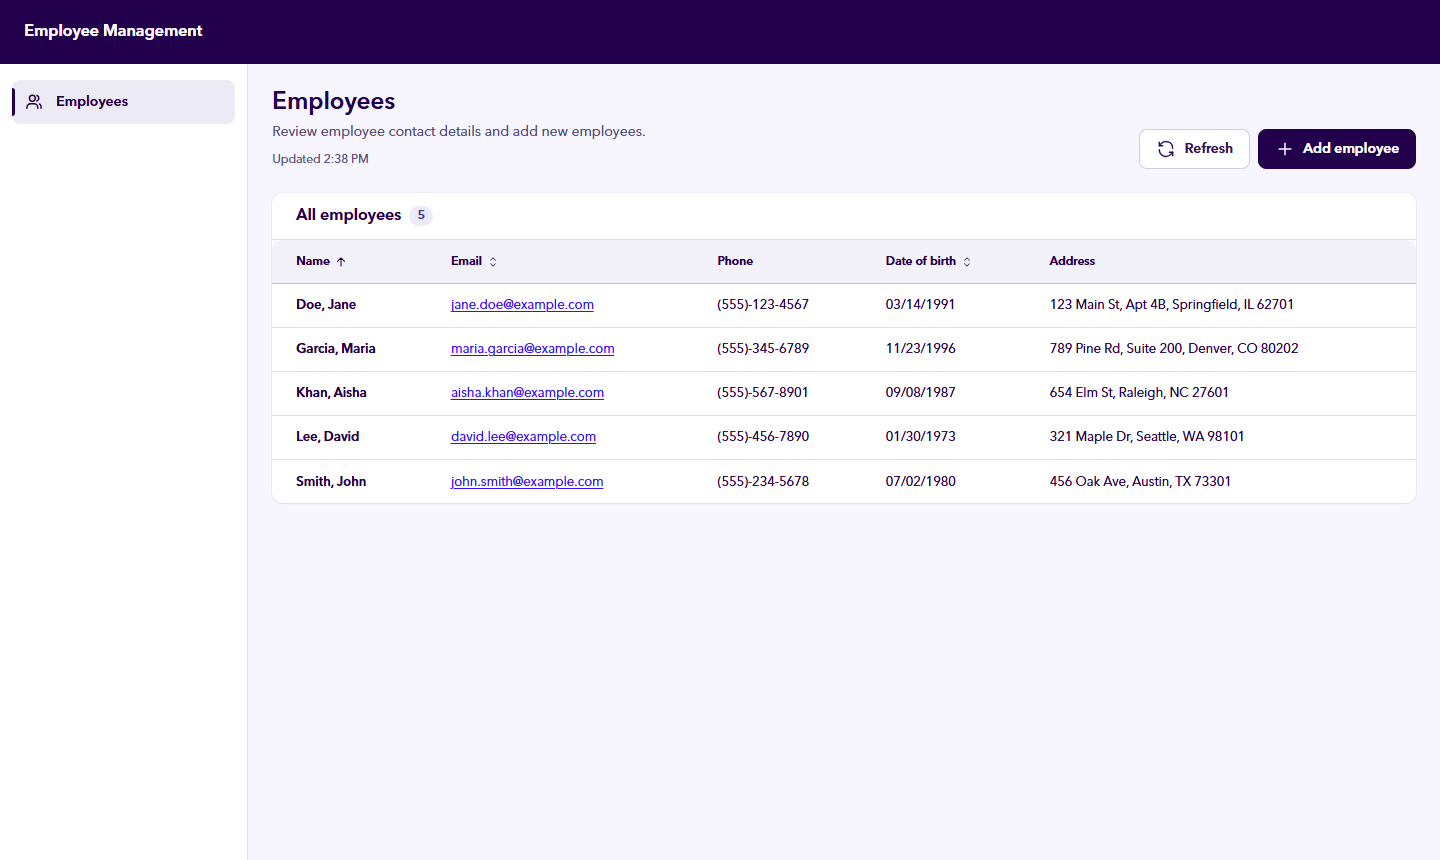
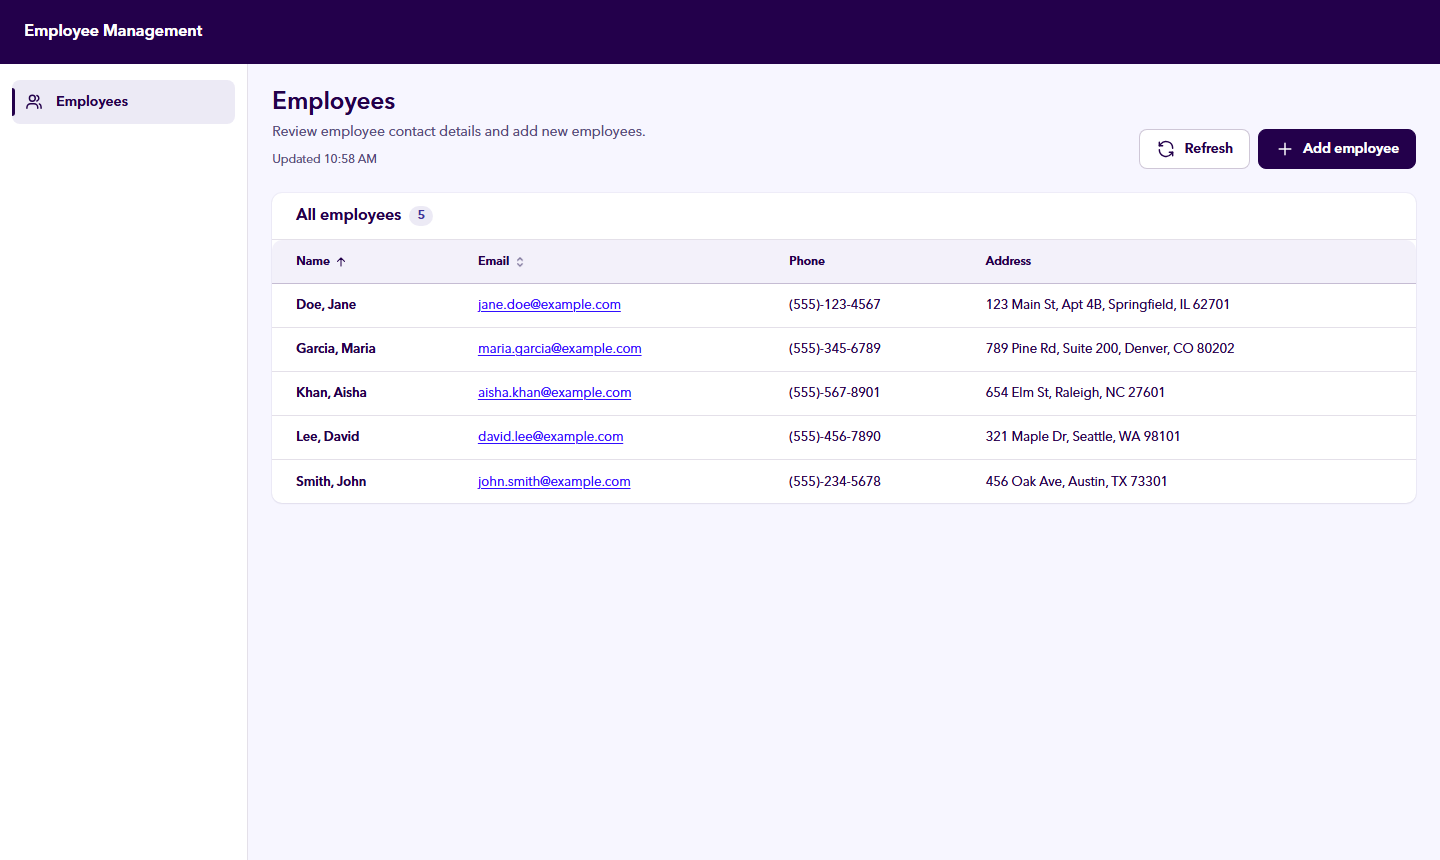
Show only the four table columns the brief requires
The brief says the employee table should display "these columns only":
Name, Email, Phone and Address. Remove the extra Date of birth column,
its sort option and its test; the loading placeholder now shows four
columns. Date of birth is still collected on the form and stored.

- README: drop the column deviation, update sorting text and test counts
- AI_USAGE: add "A requirement the AI missed: table columns"
- Retake the table screenshot

diff --git a/src/EmployeeManagement.Client/Services/EmployeeSorter.cs b/src/EmployeeManagement.Client/Services/EmployeeSorter.cs
@@ -6,7 +6,6 @@ public enum EmployeeSortColumn
 {
     Name,
     Email,
-    DateOfBirth,
 }
 
 public enum SortDirection
@@ -38,9 +37,6 @@ public static class EmployeeSorter
         var ordered = sort.Column switch
         {
             EmployeeSortColumn.Email => By(employees, e => e.Email, text, descending),
-            EmployeeSortColumn.DateOfBirth => By(employees, e => e.DateOfBirth, Comparer<DateOnly>.Default, descending)
-                .ThenBy(e => e.LastName, text)
-                .ThenBy(e => e.FirstName, text),
             _ => ThenBy(By(employees, e => e.LastName, text, descending), e => e.FirstName, text, descending),
         };
 

diff --git a/tests/EmployeeManagement.Tests/Unit/EmployeeSorterTests.cs b/tests/EmployeeManagement.Tests/Unit/EmployeeSorterTests.cs
@@ -50,16 +50,6 @@ public class EmployeeSorterTests
     }
 
     [Fact]
-    public void Sort_ByDateOfBirth_OrdersOldestFirstWhenAscending()
-    {
-        var sort = new EmployeeSort(EmployeeSortColumn.DateOfBirth, SortDirection.Ascending);
-
-        var result = EmployeeSorter.Sort(Sample, sort);
-
-        Assert.Equal([1975, 1980, 1991], result.Select(e => e.DateOfBirth.Year));
-    }
-
-    [Fact]
     public void Toggle_SameColumnTwice_FlipsDirection()
     {
         var sort = EmployeeSort.Default.Toggle(EmployeeSortColumn.Name);

diff --git a/tests/EmployeeManagement.Tests/Components/EmployeeTableTests.cs b/tests/EmployeeManagement.Tests/Components/EmployeeTableTests.cs
@@ -4,8 +4,7 @@ using EmployeeManagement.Contracts.Employees;
 
 namespace EmployeeManagement.Tests.Components;
 
-// R-15: the employee table must show exactly Name, Email, Phone, Address (combined),
-// plus the documented extra Date of birth column (see AI_USAGE/README deviation).
+// R-15: the employee table must show exactly Name, Email, Phone, Address (combined)
 [Trait("Requirement", "R-15")]
 public class EmployeeTableTests : BunitContext
 {

diff --git a/AI_USAGE.md b/AI_USAGE.md
@@ -20,7 +20,7 @@
 | 9 | Build the Blazor page: employee table with combined Name/Address columns, add form with field-level validation and API error display. | Page + table/form components, typed API client, shared-validation form validator, prerendering off. Verified in a real browser (headless Edge via Playwright, from a throwaway environment outside the repo): 5 seeded rows load; empty submit shows 9 messages and sends no request; a bad phone shows its message after editing; a valid add with " va"/blank Address 2 appears as `VA` with no blank segment and clears the form; a duplicate email in different casing shows the API's 409 message under Email. |
 | 10 | Format the phone number automatically while typing, not only after leaving the field. | `InputPhoneNumber` component + `PhoneNumberFormatter`. Tested key by key in a browser: each digit reformats immediately, an 11th digit is ignored, Backspace works, letters and dots are stripped, pasted `+1 (555) 222-3333` becomes `(555)-222-3333`, and a saved employee stores the formatted number. |
 | 11 | Turn the State field into a dropdown that filters as I type the 2-letter code. | `InputUsState` combobox, shared `UsStates` list in Contracts (also used by `[UsState]`) and `UsStateFilter`. Tested in a browser: focus lists 51 options; `T` → TN, TX; `TE` matches by name; arrow keys + Enter select without submitting the form; click and Escape work; digits are stripped and lowercase is uppercased; `ZZ` shows the error, which clears on `TX`; a saved employee stores `TX` and the form resets. |
-| 12 | Apply my Zelis "Lumen" design brief to the whole app (summarized [below](#ui-design-prompt-summary)). Before building I narrowed it: sorting only, keep the Date of birth column, sort Name by last name and show it "Last, First". | One token file and theme, a shared component set in `Components/UI/` (11 components), a new app shell, and a redesigned employees page (sortable table, add form in a drawer with a discard check, toasts, loading/empty/error states), plus redesigned Not Found and error pages. No business logic, API calls or validation rules changed. Verified with a Playwright script in headless Edge at desktop, tablet and phone widths (85 checks: sizes and colors, sorting, keyboard and focus, validation, the 409, phone/state inputs, saving, every page state), axe-core (0 WCAG 2.2 AA violations on every page and state), and a review of every screenshot. |
+| 12 | Apply my Zelis "Lumen" design brief to the whole app (summarized [below](#ui-design-prompt-summary)). Before building I narrowed it: sorting only, keep the Date of birth column (later removed, see [below](#a-requirement-the-ai-missed-table-columns)), sort Name by last name and show it "Last, First". | One token file and theme, a shared component set in `Components/UI/` (11 components), a new app shell, and a redesigned employees page (sortable table, add form in a drawer with a discard check, toasts, loading/empty/error states), plus redesigned Not Found and error pages. No business logic, API calls or validation rules changed. Verified with a Playwright script in headless Edge at desktop, tablet and phone widths (85 checks: sizes and colors, sorting, keyboard and focus, validation, the 409, phone/state inputs, saving, every page state), axe-core (0 WCAG 2.2 AA violations on every page and state), and a review of every screenshot. |
 | 13 | Write a Lead QA Tester prompt and give it, with the exercise document, to a separate Sonnet sub-agent with fresh context. It may change only test files (summarized [below](#qa-sub-agent-summary)). | 98 tests (159 cases) across unit, API integration and Blazor component (bUnit) tests, each tagged with the requirement it checks, plus exploratory API, browser and accessibility checks and a written report. 158 passed and 1 failed on purpose, exposing a real inconsistency: 404 and 409 errors were sent as `application/json`. I checked every finding before acting on it: one was confirmed and fixed, one was a false alarm, and my review of the new tests found two more problems (see the corrections below). All 159 now pass. |
 | 14 | Test a fresh clone of the repo, following only the README, to confirm it runs as-is. | Cloned the repo from GitHub into an empty folder and ran restore, build, test and run exactly as the README says: 0 warnings, 159/159 tests passed, the database was created and seeded with 5 employees, and the page, Swagger and API all responded with no browser console errors. |
 
@@ -37,7 +37,7 @@ The redesign came from one long prompt I wrote. In short, it asked for:
 - **Avoid:** gradients, translucent panels, heavy shadows, emoji icons, imitation logos, yellow primary buttons.
 - **Finish:** review every page, then summarize the files, tokens and components changed.
 
-**My scope decisions:** sorting only, because search, filtering and pagination are out of scope in the exercise. I kept the Date of birth column, and Name is sorted by last name and shown "Last, First".
+**My scope decisions:** sorting only, because search, filtering and pagination are out of scope in the exercise. I kept the Date of birth column (a mistake I later reversed; see [below](#a-requirement-the-ai-missed-table-columns)), and Name is sorted by last name and shown "Last, First".
 
 **Not built, and why:** dashboard cards, charts, tabs, breadcrumbs and overflow menus (no screen needs them); the logo (no official asset is in the repo, so the header shows the app name and has a slot for one); Avenir (a licensed font, so it isn't bundled).
 
@@ -84,10 +84,22 @@ For an independent test pass I wrote a "Lead QA Tester" prompt and ran it as a s
 - **Wrong requirement tags:** the QA sub-agent labeled some tests with requirement IDs that didn't match its own list (duplicate-email tests marked as the phone requirement, add-form tests as Swagger, delete tests as seed data). Found while documenting the `--filter` option; corrected the tags and re-ran the filter for every ID.
 - **Sub-agent stopped by my own chat messages:** the first two QA runs were started in the background and stopped partway, with no error, shortly after I sent a new chat message; the CLI cancelled the background sub-agent when the new message arrived. The third run was started in the foreground with a handover note describing the partial work, and finished.
 
+## A requirement the AI missed: table columns
+
+The brief says the table should display "these columns **only**": Name, Email, Phone and Address. The AI's first version of the table (commit `455fed8`) added a fifth column, Date of birth, and neither the commit message nor its summary mentioned it. After that, every review treated the extra column as a feature instead of a requirement miss:
+
+- During the redesign I chose to keep it, without checking it against the brief.
+- The QA sub-agent tagged the table tests with the columns requirement (R-15) but wrote "plus the documented extra Date of birth column", so it accepted the extra column instead of failing it.
+- The README listed it as a "deliberate deviation", and an interviewer-style review by another sub-agent marked it "Deviation" rather than "Not met".
+
+I caught it myself while re-reading the brief before submitting. I removed the column, its sort option and its test, and the loading placeholder now shows four columns. Date of birth is still collected on the form and stored, because that deviation (instead of age) has a real reason behind it.
+
+**Lesson:** an AI reviewer that reads the existing docs tends to accept what they already say. Requirement words like "only" need a check against the brief itself, line by line, not against the code or the README.
+
 ## How I reviewed and tested AI-generated code
 
 - Read every diff before committing.
-- Built after each step. Since the QA pass, `dotnet test` (159 cases) must pass before a commit. Checked in Swagger that every endpoint lists its status codes, and ran the app myself (F5 in VS Code) to try each feature by hand.
+- Built after each step. Since the QA pass, `dotnet test` (158 cases since the Date of birth sort test was removed) must pass before a commit. Checked in Swagger that every endpoint lists its status codes, and ran the app myself (F5 in VS Code) to try each feature by hand.
 - Independent QA pass by a separate sub-agent (above). I treated its report as claims to check, not facts: I reproduced each finding before changing anything, which caught one false alarm.
 - Before submitting: a fresh clone from GitHub run exactly as the README describes, and a CI workflow that builds and tests on Ubuntu and Windows for every push.
 - UI redesign: scripted browser checks (Playwright, headless Edge) at desktop, tablet and phone widths, axe-core accessibility scans, and a look at every screenshot. The screenshots caught six layout bugs that the scripted checks and axe missed (listed above).

diff --git a/README.md b/README.md
@@ -58,7 +58,7 @@ The Client project has no reference to the Server project or EF Core, so the UI 
 
 ## Tests
 
-`dotnet test` runs 98 tests (159 cases, because a `[Theory]` runs once per row of test data) in about 2 seconds once built. Nothing else needs to be installed or running.
+`dotnet test` runs 97 tests (158 cases, because a `[Theory]` runs once per row of test data) in about 2 seconds once built. Nothing else needs to be installed or running.
 
 | Folder | What it covers | How |
 |---|---|---|
@@ -150,8 +150,8 @@ Adding an employee, end to end:
 - **Phone number formats as you type.** `InputPhoneNumber` reformats on every keystroke (`5551234567` → `(555)-123-4567`), ignores anything that isn't a digit, stops at 10 digits and handles pasted numbers such as `+1 (555) 222-3333`. It never adds a trailing separator, so Backspace always deletes a digit. The formatting logic is plain C# (`PhoneNumberFormatter`), so it can be unit tested. To avoid an error appearing after the first digit, the phone message waits until the number is complete or you leave the field; once shown, it clears as soon as the number is fixed. The API still validates the format, so the server never relies on the UI.
 - **Normalization lives in Contracts** (`EmployeeRequestNormalizer`), shared by the API and the form.
 - **State picker with type-to-filter.** `InputUsState` is a small combobox, not a native `<select>` or `<datalist>`: typing filters the list by code first, then by name (`T` → TN, TX; `TE` → Tennessee, Texas), and you can use the arrow keys, Enter, Escape (which closes only the list, not the drawer around it) or the mouse. Input is limited to two letters and uppercased. A `<select>` can't be typed into freely, and `<datalist>` filtering and appearance differ by browser. The list of states lives in `Contracts/Validation/UsStates.cs`, so the API validation and the picker share one list. A few lines of JavaScript (`InputUsState.razor.js`) stop Enter from submitting the form while an option is highlighted, because Blazor can't cancel a key press conditionally. Validation timing matches the phone field, and ARIA combobox attributes support screen readers.
-- **Sorting only; names shown "Last, First".** Search, filtering and pagination are out of scope in the brief, so the table only sorts: click Name, Email or Date of birth to sort, click again to reverse. Name sorts by last name, then first name (the API's default order). Sorting happens in the browser on the list already loaded (`EmployeeSorter`); the sorted column is marked with `aria-sort` and the new order is announced to screen readers.
-- **Extra Date of birth column (deliberate deviation):** the brief lists four table columns (Name, Email, Phone, Address). The table also shows Date of birth, so the value collected by the form (which replaced age) is visible after saving. It's easy to remove if the four-column list is meant strictly.
+- **Sorting only; names shown "Last, First".** Search, filtering and pagination are out of scope in the brief, so the table only sorts: click Name or Email to sort, click again to reverse. Name sorts by last name, then first name (the API's default order). Sorting happens in the browser on the list already loaded (`EmployeeSorter`); the sorted column is marked with `aria-sort` and the new order is announced to screen readers.
+- **Table shows exactly the four columns the brief lists** (Name, Email, Phone, Address). Date of birth is collected by the form and returned by the API, but not shown in the table. An earlier version had a fifth Date of birth column; see [AI_USAGE.md](AI_USAGE.md#a-requirement-the-ai-missed-table-columns).
 - **UI design system (extra; the brief says visual design isn't assessed).** The UI follows a Zelis "Lumen"-style design brief (summarized in `AI_USAGE.md`). Every color, font size, spacing step, corner radius, shadow and animation duration is a CSS variable in `Server/wwwroot/css/zelis-tokens.css`. `zelis-theme.css` maps Bootstrap onto those variables and defines the shared `zl-*` classes, so components don't use one-off colors. Reusable pieces live in `Client/Components/UI/`: `PageHeader`, `StatusChip`, `Alert`, `EmptyState`, `TableSkeleton`, `FormField`, `Dialog`, `Drawer`, `ConfirmDialog`, `ToastHost` (with `ToastService`) and `Icon`. No UI library was added: it's still Bootstrap, plain CSS and a few small JavaScript modules.
 - **Responsive layout and designed states.** A 64px header with a 248px side menu on desktop, a 64px icon rail with tooltips on tablets, and a slide-out menu on phones; on narrow screens the table scrolls sideways instead of the whole page. Loading shows a skeleton table, an empty list shows an Add button, a failed load shows an error with **Try again**, and a failed refresh keeps the current list and shows an error message that stays until dismissed.
 - **Accessibility (WCAG 2.2 AA target).** Everything works from the keyboard with a visible 3px focus ring and a skip link; focus moves into the drawer and back to the button that opened it; errors are linked to their fields and the first invalid field gets focus; loading, sorting and save messages are announced to screen readers; status is never shown by color alone; animation is turned off for users who prefer reduced motion. Checked with axe-core on every page and state at desktop, tablet and phone widths: 0 violations.
@@ -165,7 +165,6 @@ Adding an employee, end to end:
 Every requirement in the brief is implemented. Deliberate differences from the brief:
 
 - **Date of birth instead of age** on the form and in the database (see the decisions above for why).
-- **The table shows a fifth column, Date of birth**, so the value from the form is visible after saving. The brief lists four columns; the column is easy to remove if that list is meant strictly.
 - **No edit or delete screens in the UI.** The brief says they aren't required; update and delete are available in the API and can be tried in Swagger.
 
 ## What I'd improve with more time
